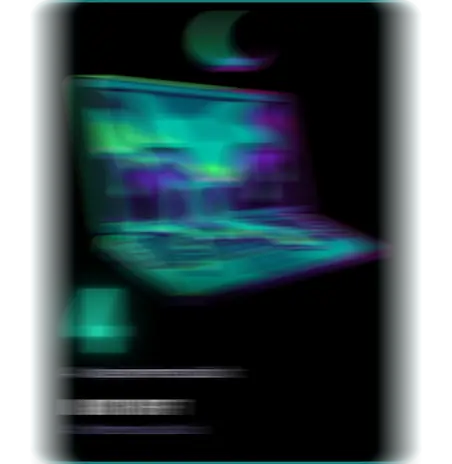
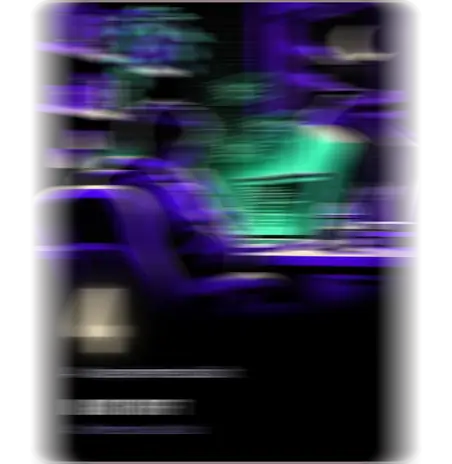
Deck cards v3: risograph art, stats in the art's inks
Claude-Session: https://claude.ai/code/session_01EXCKSVP1t3VnvkM5PbZGWB

diff --git a/index.html b/index.html
@@ -1076,11 +1076,11 @@ html.intro-lock,html.intro-lock body,html.ddm-lock,html.ddm-lock body{overflow:h
 .tc-b::after{content:"";position:absolute;inset:0;pointer-events:none;opacity:0;background:radial-gradient(circle at 50% 46%,#fff 0,color-mix(in srgb,var(--c1) 75%,#fff) 10%,color-mix(in srgb,var(--c1) 40%,transparent) 30%,transparent 58%);mix-blend-mode:screen}
 .tc.flare .tc-b::after{animation:tcFlare 1.5s ease-out both}
 @keyframes tcFlare{0%{opacity:0}10%{opacity:1}40%{opacity:.6}100%{opacity:0}}
-.tc-dis{position:absolute;inset:0;z-index:6;pointer-events:none;background:url(img/card2-back.webp) center/cover;-webkit-mask-image:linear-gradient(180deg,transparent 0 36%,#000 64% 100%);mask-image:linear-gradient(180deg,transparent 0 36%,#000 64% 100%);-webkit-mask-size:100% 280%;mask-size:100% 280%;-webkit-mask-repeat:no-repeat;mask-repeat:no-repeat;-webkit-mask-position:0 100%;mask-position:0 100%}
+.tc-dis{position:absolute;inset:0;z-index:6;pointer-events:none;background:url(img/card3-back.webp) center/cover;-webkit-mask-image:linear-gradient(180deg,transparent 0 36%,#000 64% 100%);mask-image:linear-gradient(180deg,transparent 0 36%,#000 64% 100%);-webkit-mask-size:100% 280%;mask-size:100% 280%;-webkit-mask-repeat:no-repeat;mask-repeat:no-repeat;-webkit-mask-position:0 100%;mask-position:0 100%}
 /* ---------- deck cards v2: flat neon art on black slabs, glowing stat ---------- */
-.tc.r-leg{--c1:#3cff6e}.tc.r-epic{--c1:#ff3fb4}.tc.r-rare{--c1:#1fe0b8}
+.tc.r-leg{--c1:#3cffd0}.tc.r-epic{--c1:#b98cff}.tc.r-rare{--c1:#f2e3c2}
 .tc-f,.tc-b{background:#000;border:2px solid color-mix(in srgb,var(--c1) 55%,#1a0b3d);box-shadow:0 0 0 1px #000,0 0 18px color-mix(in srgb,var(--c1) 28%,transparent),0 24px 50px rgba(0,0,0,.6)}
-.tc-b{border-color:#1fb89a}
+.tc-b{border-color:#3cffd0}
 .tc-f>img{object-position:50% 0}
 .tc-shade{background:linear-gradient(180deg,transparent 54%,rgba(0,0,0,.8) 68%,#000 80%)}
 .tc-grit{display:none}
@@ -1166,50 +1166,50 @@ html.intro-lock,html.intro-lock body,html.ddm-lock,html.ddm-lock body{overflow:h
   <div class="reel" id="reel">
 <a class="tc r-leg" href="#case-gfn" data-i="0" data-card="Cloud Summoner" aria-label="Cloud Summoner: 500+ subscribers at launch">
   <span class="tc-in">
-    <span class="tc-f"><img src="img/card2-cloud.webp" alt="" loading="lazy" decoding="async"><span class="tc-shade"></span>
+    <span class="tc-f"><img src="img/card3-cloud.webp" alt="" loading="lazy" decoding="async"><span class="tc-shade"></span>
       <span class="tc-txt"><b class="tc-num" data-v="500+">500+</b><span class="tc-lab">subscribers at launch</span><span class="tc-name">Cloud Summoner</span><span class="tc-where">Zain Jordan, GeForce NOW</span></span>
       <i class="tc-foil"></i><i class="tc-grit"></i><i class="tc-burst"></i></span>
-    <span class="tc-b"><img src="img/card2-back.webp" alt=""></span><img class="tc-mb mbf" src="img/mb-cloud.webp" alt="" decoding="async"><img class="tc-mb mbb" src="img/mb-back.webp" alt="" decoding="async">
+    <span class="tc-b"><img src="img/card3-back.webp" alt=""></span><img class="tc-mb mbf" src="img/mb-cloud.webp" alt="" decoding="async"><img class="tc-mb mbb" src="img/mb-back.webp" alt="" decoding="async">
   </span>
 </a>
 <a class="tc r-leg" href="#case-ug" data-i="1" data-card="Latency Hunter" aria-label="Latency Hunter: 1st gaming fiber in Jordan">
   <span class="tc-in">
-    <span class="tc-f"><img src="img/card2-latency.webp" alt="" loading="lazy" decoding="async"><span class="tc-shade"></span>
+    <span class="tc-f"><img src="img/card3-latency.webp" alt="" loading="lazy" decoding="async"><span class="tc-shade"></span>
       <span class="tc-txt"><b class="tc-num" data-v="1st">1st</b><span class="tc-lab">gaming fiber in Jordan</span><span class="tc-name">Latency Hunter</span><span class="tc-where">Umniah, UGaming</span></span>
       <i class="tc-foil"></i><i class="tc-grit"></i><i class="tc-burst"></i></span>
-    <span class="tc-b"><img src="img/card2-back.webp" alt=""></span><img class="tc-mb mbf" src="img/mb-latency.webp" alt="" decoding="async"><img class="tc-mb mbb" src="img/mb-back.webp" alt="" decoding="async">
+    <span class="tc-b"><img src="img/card3-back.webp" alt=""></span><img class="tc-mb mbf" src="img/mb-latency.webp" alt="" decoding="async"><img class="tc-mb mbb" src="img/mb-back.webp" alt="" decoding="async">
   </span>
 </a>
 <a class="tc r-epic" href="#case-eshop" data-i="2" data-card="Funnel Fixer" aria-label="Funnel Fixer: 1.3% eShop conversion, from 0.7%">
   <span class="tc-in">
-    <span class="tc-f"><img src="img/card2-funnel.webp" alt="" loading="lazy" decoding="async"><span class="tc-shade"></span>
+    <span class="tc-f"><img src="img/card3-funnel.webp" alt="" loading="lazy" decoding="async"><span class="tc-shade"></span>
       <span class="tc-txt"><b class="tc-num" data-v="1.3%">1.3%</b><span class="tc-lab">eShop conversion, from 0.7%</span><span class="tc-name">Funnel Fixer</span><span class="tc-where">Umniah, eShop</span></span>
       <i class="tc-foil"></i><i class="tc-grit"></i><i class="tc-burst"></i></span>
-    <span class="tc-b"><img src="img/card2-back.webp" alt=""></span><img class="tc-mb mbf" src="img/mb-funnel.webp" alt="" decoding="async"><img class="tc-mb mbb" src="img/mb-back.webp" alt="" decoding="async">
+    <span class="tc-b"><img src="img/card3-back.webp" alt=""></span><img class="tc-mb mbf" src="img/mb-funnel.webp" alt="" decoding="async"><img class="tc-mb mbb" src="img/mb-back.webp" alt="" decoding="async">
   </span>
 </a>
 <a class="tc r-rare" href="#case-pay" data-i="3" data-card="Deal Maker" aria-label="Deal Maker: 0% instalments at checkout">
   <span class="tc-in">
-    <span class="tc-f"><img src="img/card2-deal.webp" alt="" loading="lazy" decoding="async"><span class="tc-shade"></span>
+    <span class="tc-f"><img src="img/card3-deal.webp" alt="" loading="lazy" decoding="async"><span class="tc-shade"></span>
       <span class="tc-txt"><b class="tc-num" data-v="0%">0%</b><span class="tc-lab">instalments at checkout</span><span class="tc-name">Deal Maker</span><span class="tc-where">Umniah × Arab Bank</span></span>
       <i class="tc-foil"></i><i class="tc-grit"></i><i class="tc-burst"></i></span>
-    <span class="tc-b"><img src="img/card2-back.webp" alt=""></span><img class="tc-mb mbf" src="img/mb-deal.webp" alt="" decoding="async"><img class="tc-mb mbb" src="img/mb-back.webp" alt="" decoding="async">
+    <span class="tc-b"><img src="img/card3-back.webp" alt=""></span><img class="tc-mb mbf" src="img/mb-deal.webp" alt="" decoding="async"><img class="tc-mb mbb" src="img/mb-back.webp" alt="" decoding="async">
   </span>
 </a>
 <a class="tc r-epic" href="#case-eand" data-i="4" data-card="Spectrum Commander" aria-label="Spectrum Commander: ??? results classified">
   <span class="tc-in">
-    <span class="tc-f"><img src="img/card2-spectrum.webp" alt="" loading="lazy" decoding="async"><span class="tc-shade"></span>
+    <span class="tc-f"><img src="img/card3-spectrum.webp" alt="" loading="lazy" decoding="async"><span class="tc-shade"></span>
       <span class="tc-txt"><b class="tc-num" data-v="???">???</b><span class="tc-lab">results classified</span><span class="tc-name">Spectrum Commander</span><span class="tc-where">e&amp;, 5G for business</span></span>
       <i class="tc-foil"></i><i class="tc-grit"></i><i class="tc-burst"></i></span>
-    <span class="tc-b"><img src="img/card2-back.webp" alt=""></span><img class="tc-mb mbf" src="img/mb-spectrum.webp" alt="" decoding="async"><img class="tc-mb mbb" src="img/mb-back.webp" alt="" decoding="async">
+    <span class="tc-b"><img src="img/card3-back.webp" alt=""></span><img class="tc-mb mbf" src="img/mb-spectrum.webp" alt="" decoding="async"><img class="tc-mb mbb" src="img/mb-back.webp" alt="" decoding="async">
   </span>
 </a>
 <a class="tc r-rare" href="#builds" data-i="5" data-card="Night Shift" aria-label="Night Shift: 4 AI experiments built">
   <span class="tc-in">
-    <span class="tc-f"><img src="img/card2-night.webp" alt="" loading="lazy" decoding="async"><span class="tc-shade"></span>
+    <span class="tc-f"><img src="img/card3-night.webp" alt="" loading="lazy" decoding="async"><span class="tc-shade"></span>
       <span class="tc-txt"><b class="tc-num" data-v="4">4</b><span class="tc-lab">AI experiments built</span><span class="tc-name">Night Shift</span><span class="tc-where">After hours, AI lab</span></span>
       <i class="tc-foil"></i><i class="tc-grit"></i><i class="tc-burst"></i></span>
-    <span class="tc-b"><img src="img/card2-back.webp" alt=""></span><img class="tc-mb mbf" src="img/mb-night.webp" alt="" decoding="async"><img class="tc-mb mbb" src="img/mb-back.webp" alt="" decoding="async">
+    <span class="tc-b"><img src="img/card3-back.webp" alt=""></span><img class="tc-mb mbf" src="img/mb-night.webp" alt="" decoding="async"><img class="tc-mb mbb" src="img/mb-back.webp" alt="" decoding="async">
   </span>
 </a>
   </div>
